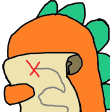
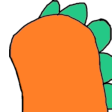
Additional dino fragments and adjustments
Breaks out the map of raxLost into a new mouth segment, and updates the base image.
Fixes rexHi
Adds rexTuturu
Adds the mouth from rexPog
Add raxLove

diff --git a/src/assets/NFD/Decomposed Emotes.md b/src/assets/NFD/Decomposed Emotes.md
@@ -1,3 +1,4 @@
+* cirBox
 * migrror
 * miku
 * monkaRax1
@@ -19,6 +20,7 @@
 * raxK
 * raxK2
 * raxLost
+* raxLove
 * raxNTL
 * raxOig
 * raxOow
@@ -81,6 +83,7 @@
 * rexPartyHat
 * rexPickle
 * rexPls
+* rexPog
 * rexPraiseTheDino
 * rexQQ
 * rexQQnoir
@@ -97,6 +100,7 @@
 * rexTeeth
 * rexThink
 * rexThinknt
+* rexTuturu
 * rexUwU
 * rexVeryCool
 * rexVnV
